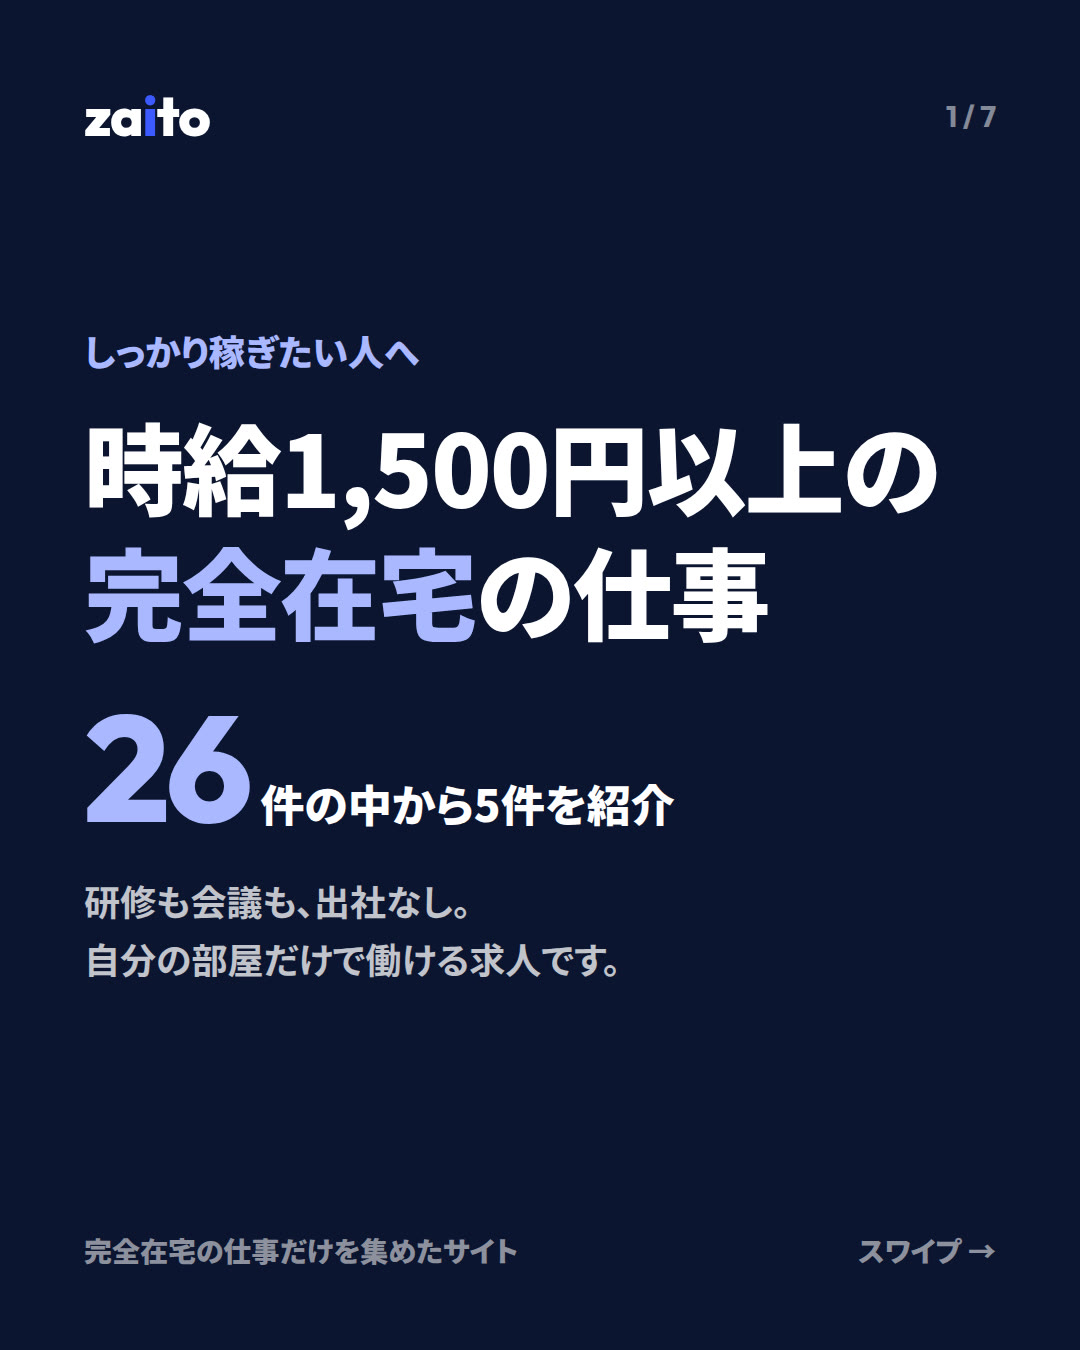
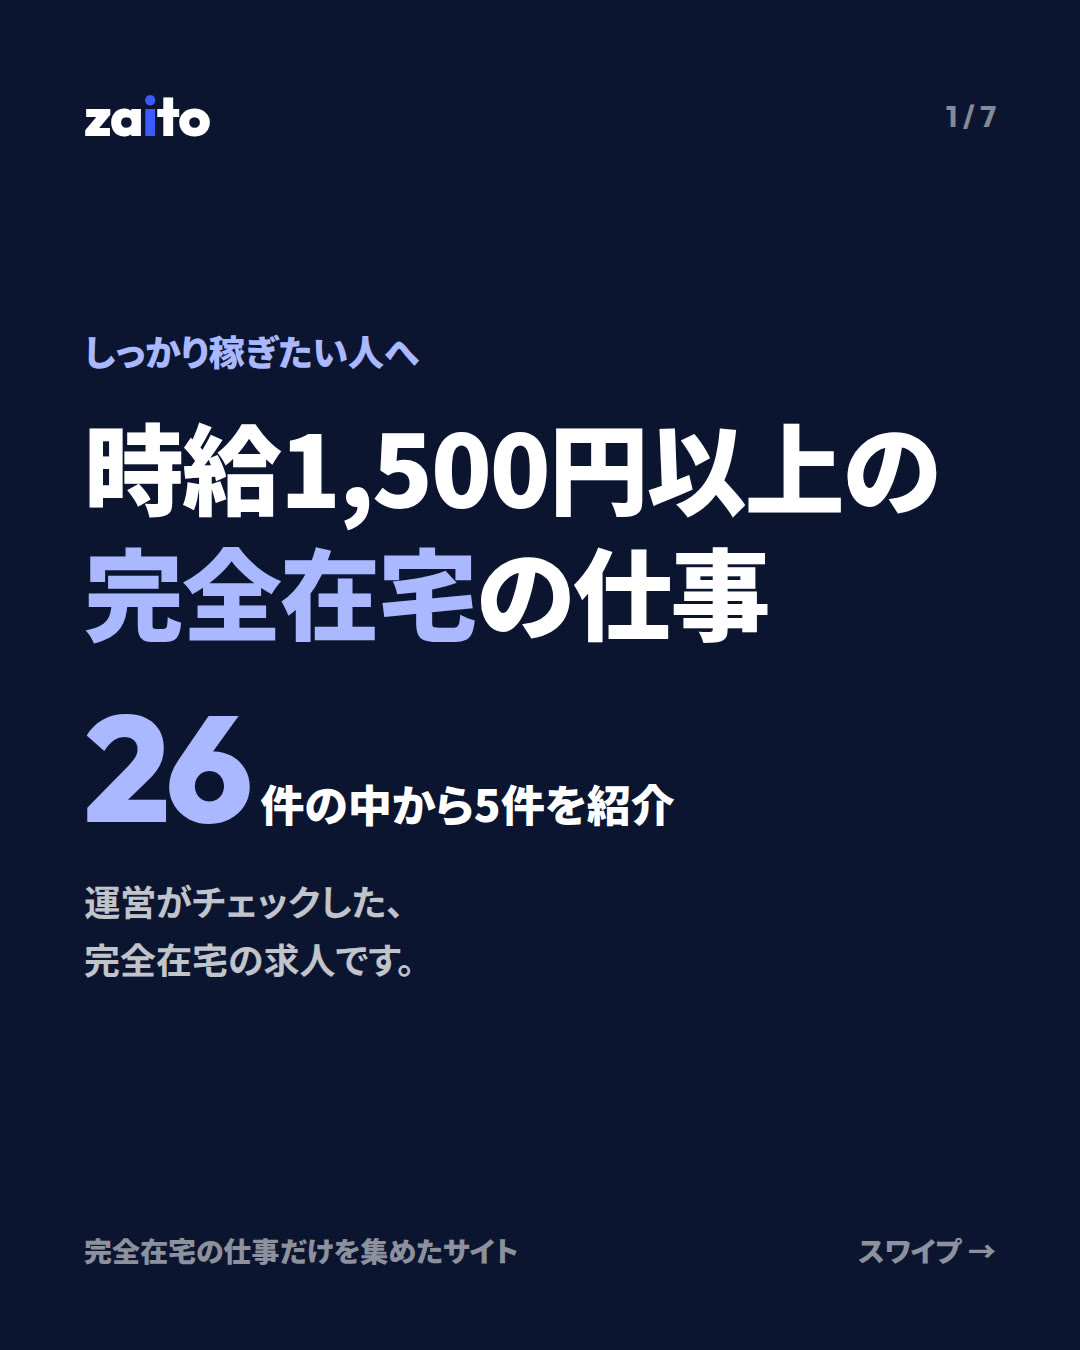
Instagramの打ち出しを「完全在宅だけ・運営がチェック・見つけにくい求人も」に変更
- 紹介カルーセルを3つの特長を軸に作り直した（「研修は出社」を前面に出す構成をやめた）
- 求人カルーセルの表紙・キャプション、よくある質問の一部を同じ打ち出しに合わせた
- 「在宅OKと完全在宅の違い」は投稿の予定から外した（1本目を削除したので、紹介カルーセルは未投稿に戻した）

Claude-Session: https://claude.ai/code/session_01Nc8VBXCZiKQdU3ws5s6smf

Changed region(s): [[0.0611, 0.6533, 0.55, 0.7467]]

diff --git a/marketing/carousel/make_carousel.js b/marketing/carousel/make_carousel.js
@@ -65,6 +65,7 @@ p.lead{margin-top:36px;font-size:40px;font-weight:700;line-height:1.6;opacity:.8
 .cta{margin-top:56px;align-self:flex-start;height:132px;padding:0 56px;border-radius:999px;background:#3D5AFE;color:#fff;box-shadow:0 30px 60px -30px rgba(61,90,254,.7);display:flex;align-items:center;font-size:48px;font-weight:900}
 .url{margin-top:30px;font-family:'Outfit',sans-serif;font-size:44px;font-weight:700;color:#3D5AFE}
 .wm{font-family:'Outfit',sans-serif;font-weight:800;letter-spacing:-.03em;color:#0B1530}.wm span{color:#3D5AFE}
+.dark .wm{color:#fff}
 `;
 const page = (cls, i, body, last) => `<!doctype html><html lang="ja"><head><meta charset="utf-8">
 <link href="https://fonts.googleapis.com/css2?family=Noto+Sans+JP:wght@500;700;900&family=Outfit:wght@700;800&display=swap" rel="stylesheet">
@@ -75,30 +76,33 @@ const page = (cls, i, body, last) => `<!doctype html><html lang="ja"><head><meta
 </div></body></html>`;
 
 const cats = Object.entries(groups).filter(([g]) => g !== 'その他').sort((a, b) => b[1] - a[1]);
+const WM = '<span class="wm">za<span>i</span>to</span>';
 const SLIDES = [
-  ['dark', `<div class="k">在宅バイトを探している人へ</div>
-<h1 style="margin-top:28px">「在宅OK」なのに、<br><em>研修は出社</em>って<br>言われたこと、<br>ありませんか？</h1>`],
-  ['', `<div class="k">よくある「在宅OK」</div>
-<h2 style="margin-top:24px">書いてあるのは在宅でも…</h2>
+  ['dark', `<div class="k">在宅で働きたい人へ</div>
+<h1 style="margin-top:28px"><em>完全在宅</em>の<br>仕事だけを<br>集めた求人サイト</h1>
+<p class="lead" style="margin-top:40px">${WM}（ザイト）</p>`],
+  ['', `<div class="k">zaitoの3つの特長</div>
 <div class="list">
-<div class="row"><div class="ic ng">×</div><div><b>最初の1か月は出社</b><small>研修だけ本社で</small></div></div>
-<div class="row"><div class="ic ng">×</div><div><b>月1回の定例会は出社</b><small>「基本は在宅」の“基本”</small></div></div>
-<div class="row"><div class="ic ng">×</div><div><b>お客様先への訪問あり</b><small>仕事の中に外出がある</small></div></div>
+<div class="row"><div class="ic">1</div><div><b>完全在宅の仕事だけ</b><small>働く場所がすべて自宅の求人を集めています</small></div></div>
+<div class="row"><div class="ic">2</div><div><b>運営がチェックして掲載</b><small>募集ページを読んで、確かめてから載せます</small></div></div>
+<div class="row"><div class="ic">3</div><div><b>見つけにくい求人も</b><small>大手求人サイトでは探しにくい求人も載せています</small></div></div>
 </div>`],
-  ['blue', `<div class="k">だから作りました</div>
-<h1 style="margin-top:28px"><em>完全在宅</em>の<br>仕事だけを、<br>集めました。</h1>
-<p class="lead">研修も、会議も、出社なし。<br>自分の部屋だけで働ける求人を<br>まとめたサイトです。</p>`],
-  ['', `<div class="k">載せる前に確かめていること</div>
+  ['', `<div class="k">特長 1</div>
+<h2 style="margin-top:24px"><em>完全在宅</em>の仕事だけ</h2>
+<p class="note" style="margin-top:24px">家から一歩も出ずに働ける仕事だけ。<br>いま <b style="color:#3D5AFE">${N}件</b> から選べます。</p>
+<div class="cats">${cats.map(([g, n]) => `<div class="cat">${esc(g)}<i>${n}</i></div>`).join('')}</div>`],
+  ['', `<div class="k">特長 2</div>
+<h2 style="margin-top:24px">運営が<em>チェック</em>して掲載</h2>
 <div class="list">
-<div class="row"><div class="ic ok">✓</div><div><b>研修・会議も含めて出社なし</b><small>初日だけ・月1回だけ、も載せません</small></div></div>
-<div class="row"><div class="ic ok">✓</div><div><b>「基本は」「原則」は外す</b><small>例外がありうる書き方の求人は載せません</small></div></div>
-<div class="row"><div class="ic ok">✓</div><div><b>働く前にお金がかからない</b><small>教材費・登録料が必要な求人は載せません</small></div></div>
+<div class="row"><div class="ic ok">✓</div><div><b>働く場所がすべて自宅か</b><small>募集ページを読んで確かめます</small></div></div>
+<div class="row"><div class="ic ok">✓</div><div><b>仕事内容・報酬・時間</b><small>分かりやすくまとめて載せます</small></div></div>
+<div class="row"><div class="ic ok">✓</div><div><b>働く前にお金がかからないか</b><small>教材費・登録料が必要な求人は載せません</small></div></div>
 <div class="row"><div class="ic ok">✓</div><div><b>2週間ごとに確認し直す</b><small>募集が終わった求人は外します</small></div></div>
 </div>`],
-  ['', `<div class="k">どんな仕事がある？</div>
-<h2 style="margin-top:24px">いま <em>${N}件</em></h2>
-<div class="cats">${cats.map(([g, n]) => `<div class="cat">${esc(g)}<i>${n}</i></div>`).join('')}</div>
-<p class="note">アルバイト・長期インターン・業務委託など。<br>報酬は求人ごとに、募集ページの内容をそのまま載せています。</p>`],
+  ['', `<div class="k">特長 3</div>
+<h2 style="margin-top:24px"><em>見つけにくい求人</em>も</h2>
+<p class="lead" style="margin-top:36px">企業の採用ページやSNSだけで<br>募集している求人も、<br>運営が探して載せています。</p>
+<p class="note">大手の求人サイトで探しても<br>出てこない仕事に出会えるかもしれません。</p>`],
   ['', `<div class="k">自分に合うものから探せる</div>
 <div class="grid">
 <div class="cell"><b>${stat.student}<small>件</small></b><span>学生OK</span></div>
@@ -106,14 +110,14 @@ const SLIDES = [
 <div class="cell"><b>${stat.pay1500}<small>件</small></b><span>時給1,500円〜</span></div>
 <div class="cell"><b>${stat.short}<small>件</small></b><span>週1〜2日でOK</span></div>
 </div>
-<p class="note">条件のボタンを押すだけで絞り込めます。<br>押す前に何件になるかも分かります。</p>`],
+<p class="note">条件のボタンを押すだけで絞り込めます。</p>`],
   ['', `<div class="k">使い方</div>
 <div class="steps">
 <div class="step"><div class="n">1</div><div><b>求人を探す</b><span>職種や時給、学生OKなどで絞り込み</span></div></div>
 <div class="step"><div class="n">2</div><div><b>気になったら保存</b><span>しおりを押すと、マイページにまとまります</span></div></div>
 <div class="step"><div class="n">3</div><div><b>企業のページから応募</b><span>はじめての人はメールアドレスで無料登録</span></div></div>
 </div>`],
-  ['blue', `<h1>完全在宅の<br>仕事なら、<span class="wm">za<span>i</span>to</span></h1>
+  ['blue', `<h1>完全在宅の<br>仕事なら、${WM}</h1>
 <p class="lead">登録は無料・メールアドレスだけ。<br>希望に合う新しい求人もお知らせします。</p>
 <div class="cta">プロフィールのリンクから</div>
 <div class="url">zaito-work.com</div>`],
@@ -135,10 +139,12 @@ const SLIDES = [
   }
   await b.close();
 
-  const caption = `「在宅OK」なのに、研修は出社。
-そんな求人をなくしたくて、完全在宅の仕事だけを集めたサイトを作りました。
+  const caption = `完全在宅の仕事だけを集めた求人サイト、zaito（ザイト）です。
 
-zaitoに載っているのは、研修も会議も含めて出社がない求人だけ。いま${N}件あります。
+zaitoの3つの特長
+1. 完全在宅の仕事だけ（いま${N}件）
+2. 運営が募集ページを読んで、チェックしてから掲載
+3. 企業の採用ページやSNSだけで募集している、大手求人サイトでは見つけにくい求人も
 
 ・学生OK ${stat.student}件
 ・未経験OK ${stat.newbie}件

diff --git a/marketing/carousel/make_about_carousels.js b/marketing/carousel/make_about_carousels.js
@@ -72,17 +72,17 @@ const SETS = {
     name: 'よくある質問',
     slides: [
       ['dark', `<div class="mid"><div class="k">はじめての方へ</div><h1>${'zaito'}って<br>なに？<br><em>よくある質問</em></h1></div>`],
-      ['', qa('どんなサイト？', `<b>完全在宅の仕事だけ</b>を集めた求人サイトです。研修や会議も含めて、出社がない求人だけを載せています。いま${N}件。`)],
+      ['', qa('どんなサイト？', `<b>完全在宅の仕事だけ</b>を集めた求人サイトです。運営がチェックした求人を、いま${N}件載せています。`)],
       ['', qa('お金はかかる？', `<b>無料</b>です。登録も、求人を見るのも、応募するのも、お金はかかりません。`)],
       ['', qa('だれが使える？', `<b>学生・社会人・主婦（主夫）</b>など、だれでも。学生OK・未経験OK・週1〜2日でOKの求人も、ボタンで絞り込めます。`)],
       ['', qa('どうやって応募する？', `求人ページの「応募ページへ進む」から、<b>企業の募集ページで応募</b>します。はじめての人だけ、メールアドレスで無料登録が必要です。`)],
-      ['', qa('本当に出社はない？', `載せる前に、募集ページを読んで確かめています。<b>2週間ごとに確認し直し</b>て、条件が変わった求人は外しています。`)],
+      ['', qa('ほかの求人サイトとの違いは？', `<b>完全在宅の仕事だけ</b>なこと。そして、企業の採用ページやSNSだけで募集している、<b>大手求人サイトでは見つけにくい求人</b>も、運営が探して載せていることです。`)],
       ['light', cta(`完全在宅の<br>仕事なら、${WM}`)],
     ],
     caption: `zaitoってなに？よくある質問をまとめました。
 
 Q. どんなサイト？
-完全在宅の仕事だけを集めた求人サイトです。研修や会議も含めて、出社がない求人だけ。いま${N}件。
+完全在宅の仕事だけを集めた求人サイトです。運営がチェックした求人を、いま${N}件。
 
 Q. お金はかかる？
 無料です。登録も応募もお金はかかりません。
@@ -93,8 +93,8 @@ Q. だれが使える？
 Q. どうやって応募する？
 求人ページから、企業の募集ページで応募します。
 
-Q. 本当に出社はない？
-載せる前に募集ページを確かめ、2週間ごとに確認し直しています。
+Q. ほかの求人サイトとの違いは？
+完全在宅の仕事だけなこと。企業の採用ページやSNSだけで募集している、大手求人サイトでは見つけにくい求人も載せています。
 
 求人はプロフィールのリンク（zaito-work.com）から
 
@@ -179,7 +179,7 @@ function tsukaikataSlides(s) {
     ['dark', `<div class="mid"><div class="k">実際の画面で紹介</div><h1>${'zaito'}の<br><em>使い方</em></h1><p class="lead">完全在宅の仕事を、<br>4ステップで探して応募。</p></div>`],
     st(1, '条件で絞り込む', '学生OK・時給・週1〜2日など。押す前に件数が分かります', s.filter),
     st(2, '気になったら保存', 'しおりを押すと、マイページにまとまります', s.save),
-    st(3, '求人をくわしく見る', '在宅の条件・報酬・働き方を、運営が確かめた日と一緒に', s.job),
+    st(3, '求人をくわしく見る', '在宅の条件・報酬・働き方を、運営がチェックした日と一緒に', s.job),
     st(4, '募集ページから応募', 'はじめての人は、メールアドレスだけで無料登録', s.apply),
     ['light', cta(`完全在宅の<br>仕事なら、${WM}`)],
   ];

diff --git a/marketing/carousel/make_job_carousels.js b/marketing/carousel/make_job_carousels.js
@@ -82,7 +82,7 @@ const frame = (cls, i, n, body, foot) => `${HEAD}<div class="s ${cls}"><div clas
 
 function cover(t, list, n) {
   return frame('dark', 1, n, `<div class="mid"><div class="k">${esc(t.kicker)}</div><h1>${esc(t.title).replace('\n', '<br>').replace('完全在宅', '<em>完全在宅</em>').replace('出社なし', '<em>出社なし</em>')}</h1>
-<div class="count"><b>${t.total}</b>件の中から${list.length}件を紹介</div><p class="sub">研修も会議も、出社なし。<br>自分の部屋だけで働ける求人です。</p></div>`);
+<div class="count"><b>${t.total}</b>件の中から${list.length}件を紹介</div><p class="sub">運営がチェックした、<br>完全在宅の求人です。</p></div>`);
 }
 function jobSlide(j, i, n) {
   const pp = payParts(j.pay);
@@ -127,7 +127,7 @@ function ctaSlide(t, n) {
     for (let i = 0; i < list.length; i++) await shot(jobSlide(list[i], i + 2, n), path.join(dir, String(i + 2).padStart(2, '0') + '.png'));
     await shot(ctaSlide(t, n), path.join(dir, String(n).padStart(2, '0') + '.png'));
     const rows = list.map((j, i) => `${i + 1}. ${j.title}（${j.company}）\n　${j.pay ? j.pay : '報酬は募集ページで確認'}${j.hours ? '／' + short(j.hours, 30) : ''}`).join('\n');
-    const caption = `${t.title.replace('\n', '')}、いま${t.total}件。その中から${list.length}件を紹介します。\n\n${rows}\n\nどれも研修・会議を含めて出社なし。募集ページの内容を確かめてから載せています。\n応募は、プロフィールのリンク（zaito-work.com）から各求人のページへ。\n\n※募集内容は変わることがあります。応募前に元の募集ページも確認してください。\n\n#在宅バイト #完全在宅 #在宅ワーク #リモートワーク ${t.tag}`;
+    const caption = `${t.title.replace('\n', '')}、いま${t.total}件。その中から${list.length}件を紹介します。\n\n${rows}\n\nどれも、運営が募集ページを読んでチェックした完全在宅の求人です。\n応募は、プロフィールのリンク（zaito-work.com）から各求人のページへ。\n\n※募集内容は変わることがあります。応募前に元の募集ページも確認してください。\n\n#在宅バイト #完全在宅 #在宅ワーク #リモートワーク ${t.tag}`;
     md += `---\n\n## ${t.title.replace('\n', '')}（jobs/${t.key}/・${n}枚）\nリンク先（プロフィールのリンクを一時的に変えるとき）: https://zaito-work.com${t.link}${t.link.includes('?') ? '&' : '?'}utm_source=instagram&utm_medium=social&utm_campaign=carousel_${t.key}\n\n\`\`\`\n${caption}\n\`\`\`\n\n`;
     console.log('wrote', t.key, n, 'slides', list.map(j => j.slug).join(','));
   }

diff --git a/marketing/instagram/build_queue.py b/marketing/instagram/build_queue.py
@@ -23,7 +23,7 @@ intro = re.search(r'```\n(.*?)\n```', open(os.path.join(CAR, 'キャプション
 caps['intro'] = intro
 
 # 紹介系と求人紹介を交互に並べる
-ORDER = ['intro', 'jobs-gakusei', 'about-chigai', 'jobs-mikeiken', 'about-faq', 'jobs-pay1500', 'about-tsukaikata', 'jobs-tanjikan', 'jobs-jimu']
+ORDER = ['intro', 'jobs-gakusei', 'about-faq', 'jobs-mikeiken', 'about-tsukaikata', 'jobs-pay1500', 'jobs-tanjikan', 'jobs-jimu']
 qpath = os.path.join(os.path.dirname(__file__), 'queue.json')
 old = {p['id']: p for p in json.load(open(qpath, encoding='utf-8'))} if os.path.exists(qpath) else {}
 queue = []

diff --git a/marketing/carousel/jobs/キャプション.md b/marketing/carousel/jobs/キャプション.md
@@ -22,7 +22,7 @@
 5. 新しいメディアの立ち上げ（学生インターン）（株式会社Kumono）
 　時給1,230円〜／週3日・1日3時間から・3か月以上
 
-どれも研修・会議を含めて出社なし。募集ページの内容を確かめてから載せています。
+どれも、運営が募集ページを読んでチェックした完全在宅の求人です。
 応募は、プロフィールのリンク（zaito-work.com）から各求人のページへ。
 
 ※募集内容は変わることがあります。応募前に元の募集ページも確認してください。
@@ -49,7 +49,7 @@
 5. BtoBマーケティングのアシスタント（未経験から）（株式会社リードファクトリー）
 　時給1,300〜2,000円／平日9〜18時（実働8時間）
 
-どれも研修・会議を含めて出社なし。募集ページの内容を確かめてから載せています。
+どれも、運営が募集ページを読んでチェックした完全在宅の求人です。
 応募は、プロフィールのリンク（zaito-work.com）から各求人のページへ。
 
 ※募集内容は変わることがあります。応募前に元の募集ページも確認してください。
@@ -76,7 +76,7 @@
 5. 人材紹介会社向けシステムのテレアポ（株式会社HERP）
 　時給2,500円〜／平日週3日以上・10〜18時（月100〜160時間）・3か…
 
-どれも研修・会議を含めて出社なし。募集ページの内容を確かめてから載せています。
+どれも、運営が募集ページを読んでチェックした完全在宅の求人です。
 応募は、プロフィールのリンク（zaito-work.com）から各求人のページへ。
 
 ※募集内容は変わることがあります。応募前に元の募集ページも確認してください。
@@ -103,7 +103,7 @@
 5. 女性向けメディア「Ray」の記事制作（株式会社DONUTS）
 　1記事300〜1,200円（成果報酬）／週2日・1日3時間から、6か月以上
 
-どれも研修・会議を含めて出社なし。募集ページの内容を確かめてから載せています。
+どれも、運営が募集ページを読んでチェックした完全在宅の求人です。
 応募は、プロフィールのリンク（zaito-work.com）から各求人のページへ。
 
 ※募集内容は変わることがあります。応募前に元の募集ページも確認してください。
@@ -130,7 +130,7 @@
 5. オンライン秘書（株式会社ニット（HELP YOU））
 　時給1,500円（研修中1,350円）／平日週3日以上・9〜18時のうち1日2〜3時間
 
-どれも研修・会議を含めて出社なし。募集ページの内容を確かめてから載せています。
+どれも、運営が募集ページを読んでチェックした完全在宅の求人です。
 応募は、プロフィールのリンク（zaito-work.com）から各求人のページへ。
 
 ※募集内容は変わることがあります。応募前に元の募集ページも確認してください。

diff --git a/marketing/carousel/about/キャプション.md b/marketing/carousel/about/キャプション.md
@@ -10,7 +10,7 @@
 zaitoってなに？よくある質問をまとめました。
 
 Q. どんなサイト？
-完全在宅の仕事だけを集めた求人サイトです。研修や会議も含めて、出社がない求人だけ。いま71件。
+完全在宅の仕事だけを集めた求人サイトです。運営がチェックした求人を、いま71件。
 
 Q. お金はかかる？
 無料です。登録も応募もお金はかかりません。
@@ -21,8 +21,8 @@ Q. だれが使える？
 Q. どうやって応募する？
 求人ページから、企業の募集ページで応募します。
 
-Q. 本当に出社はない？
-載せる前に募集ページを確かめ、2週間ごとに確認し直しています。
+Q. ほかの求人サイトとの違いは？
+完全在宅の仕事だけなこと。企業の採用ページやSNSだけで募集している、大手求人サイトでは見つけにくい求人も載せています。
 
 求人はプロフィールのリンク（zaito-work.com）から
 

diff --git a/marketing/carousel/キャプション.md b/marketing/carousel/キャプション.md
@@ -5,10 +5,12 @@
 ## キャプション
 
 ```
-「在宅OK」なのに、研修は出社。
-そんな求人をなくしたくて、完全在宅の仕事だけを集めたサイトを作りました。
+完全在宅の仕事だけを集めた求人サイト、zaito（ザイト）です。
 
-zaitoに載っているのは、研修も会議も含めて出社がない求人だけ。いま71件あります。
+zaitoの3つの特長
+1. 完全在宅の仕事だけ（いま71件）
+2. 運営が募集ページを読んで、チェックしてから掲載
+3. 企業の採用ページやSNSだけで募集している、大手求人サイトでは見つけにくい求人も
 
 ・学生OK 22件
 ・未経験OK 19件
